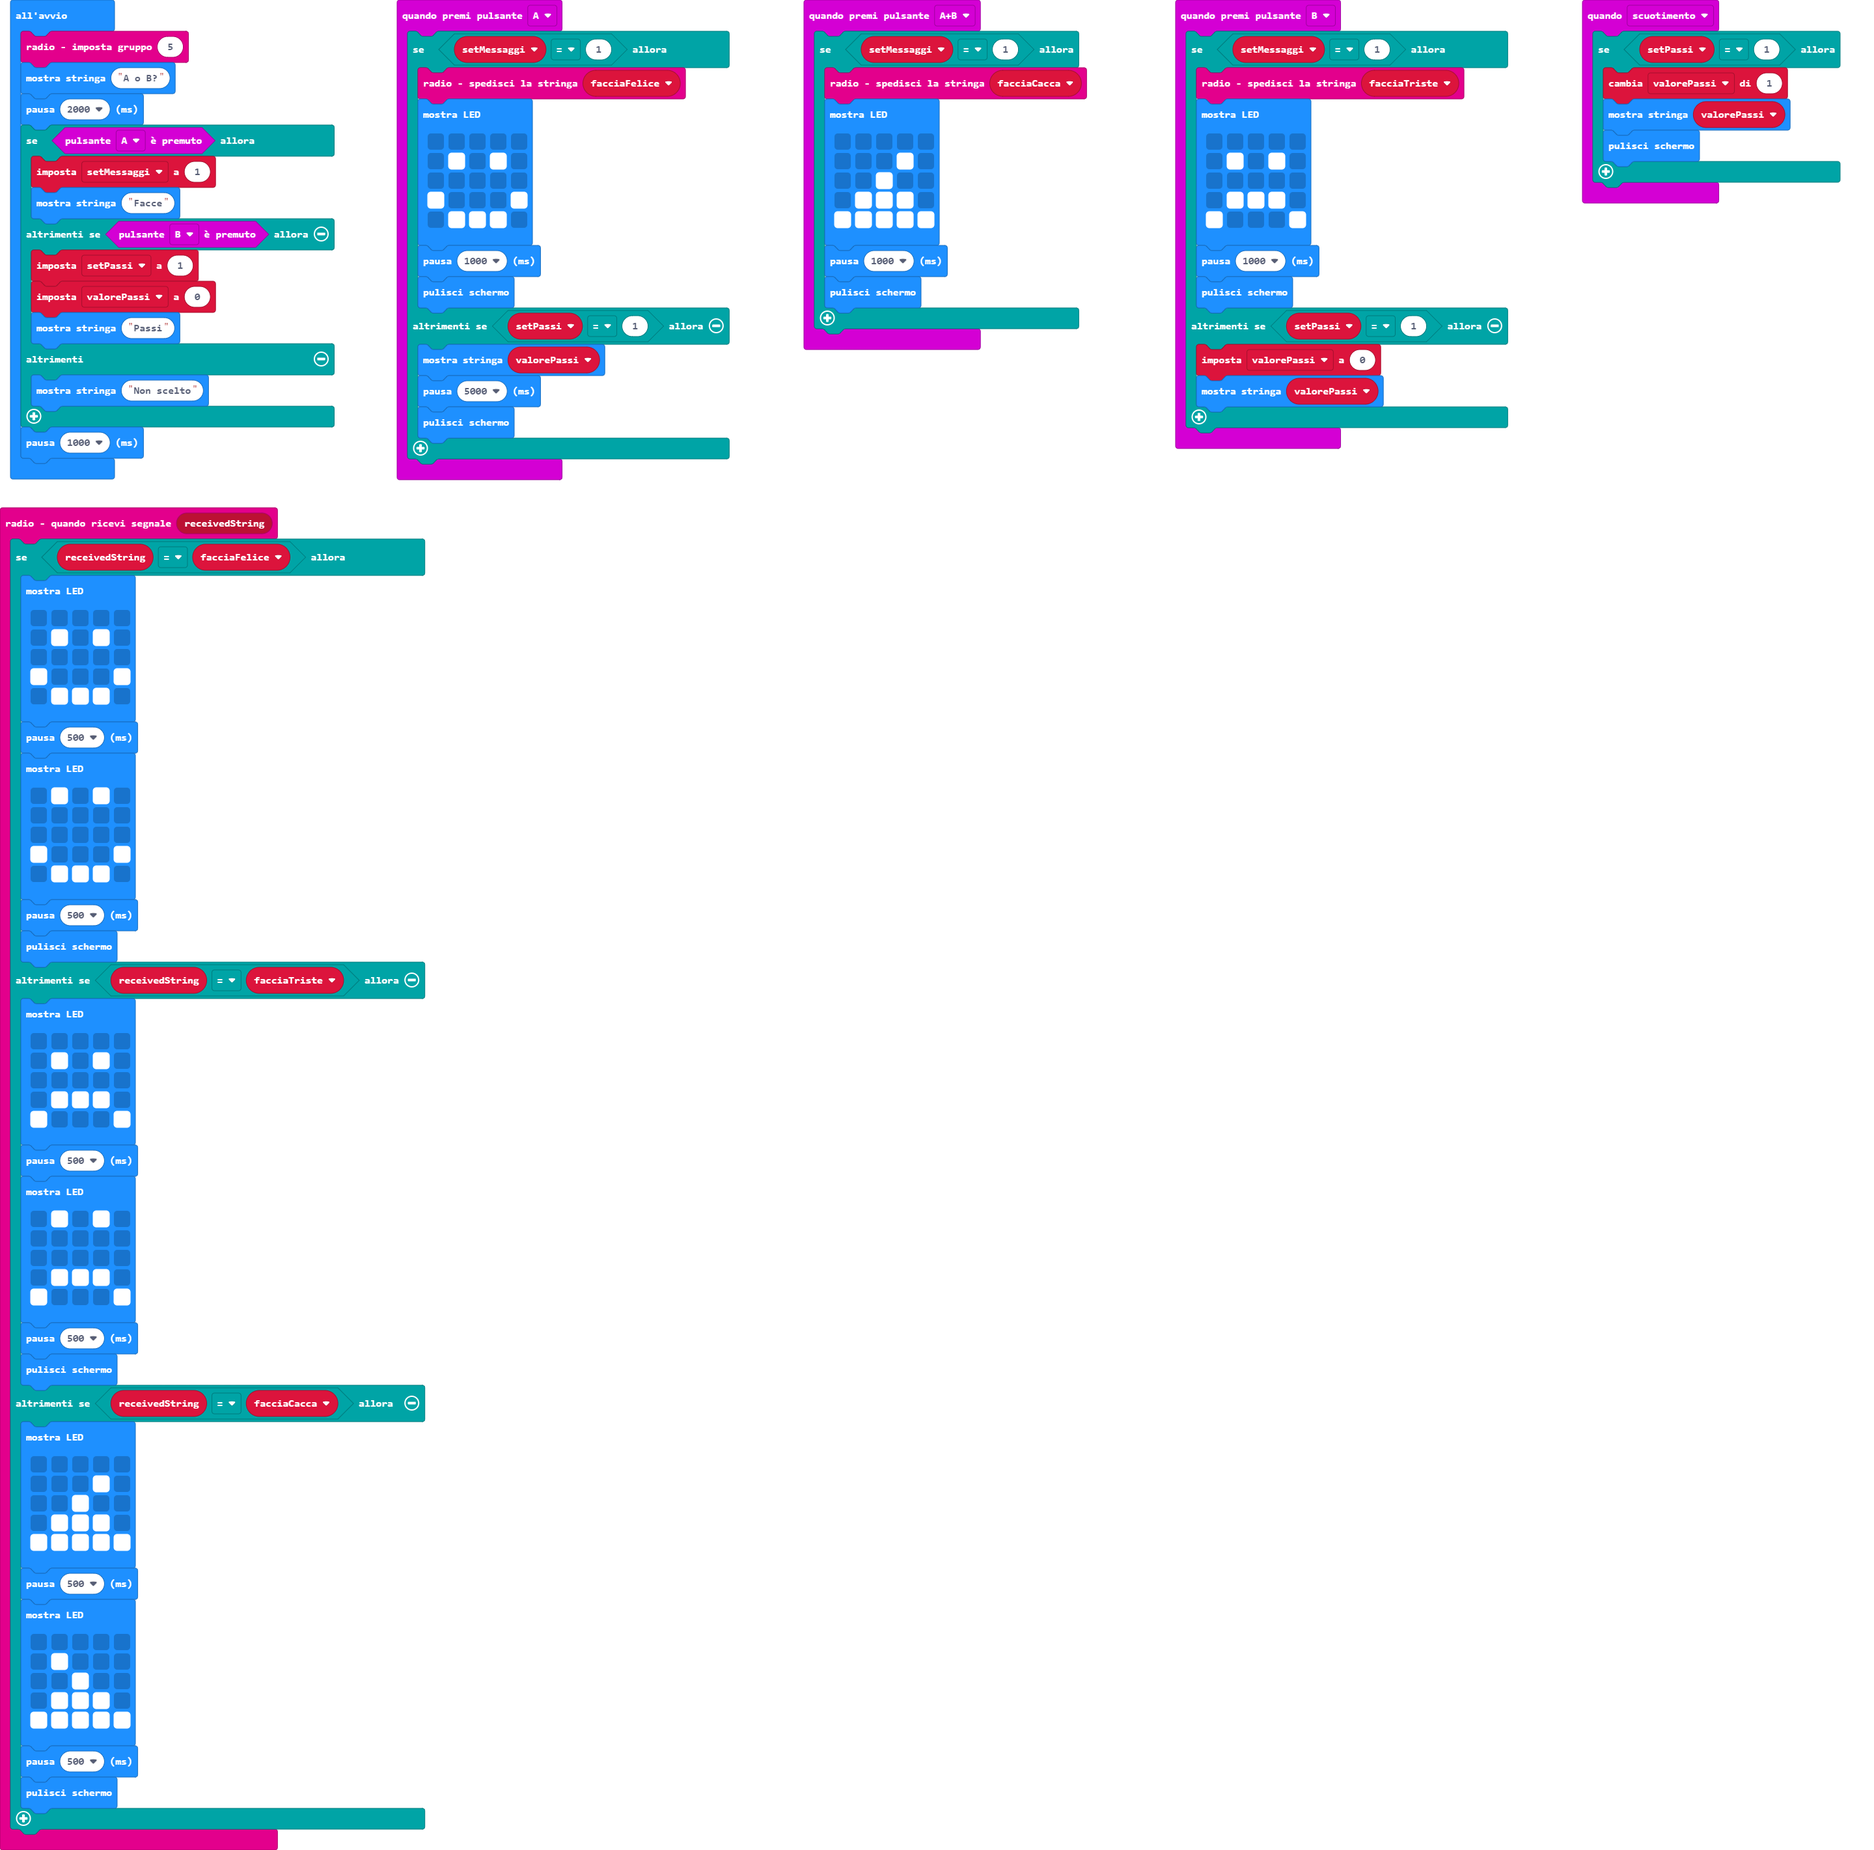
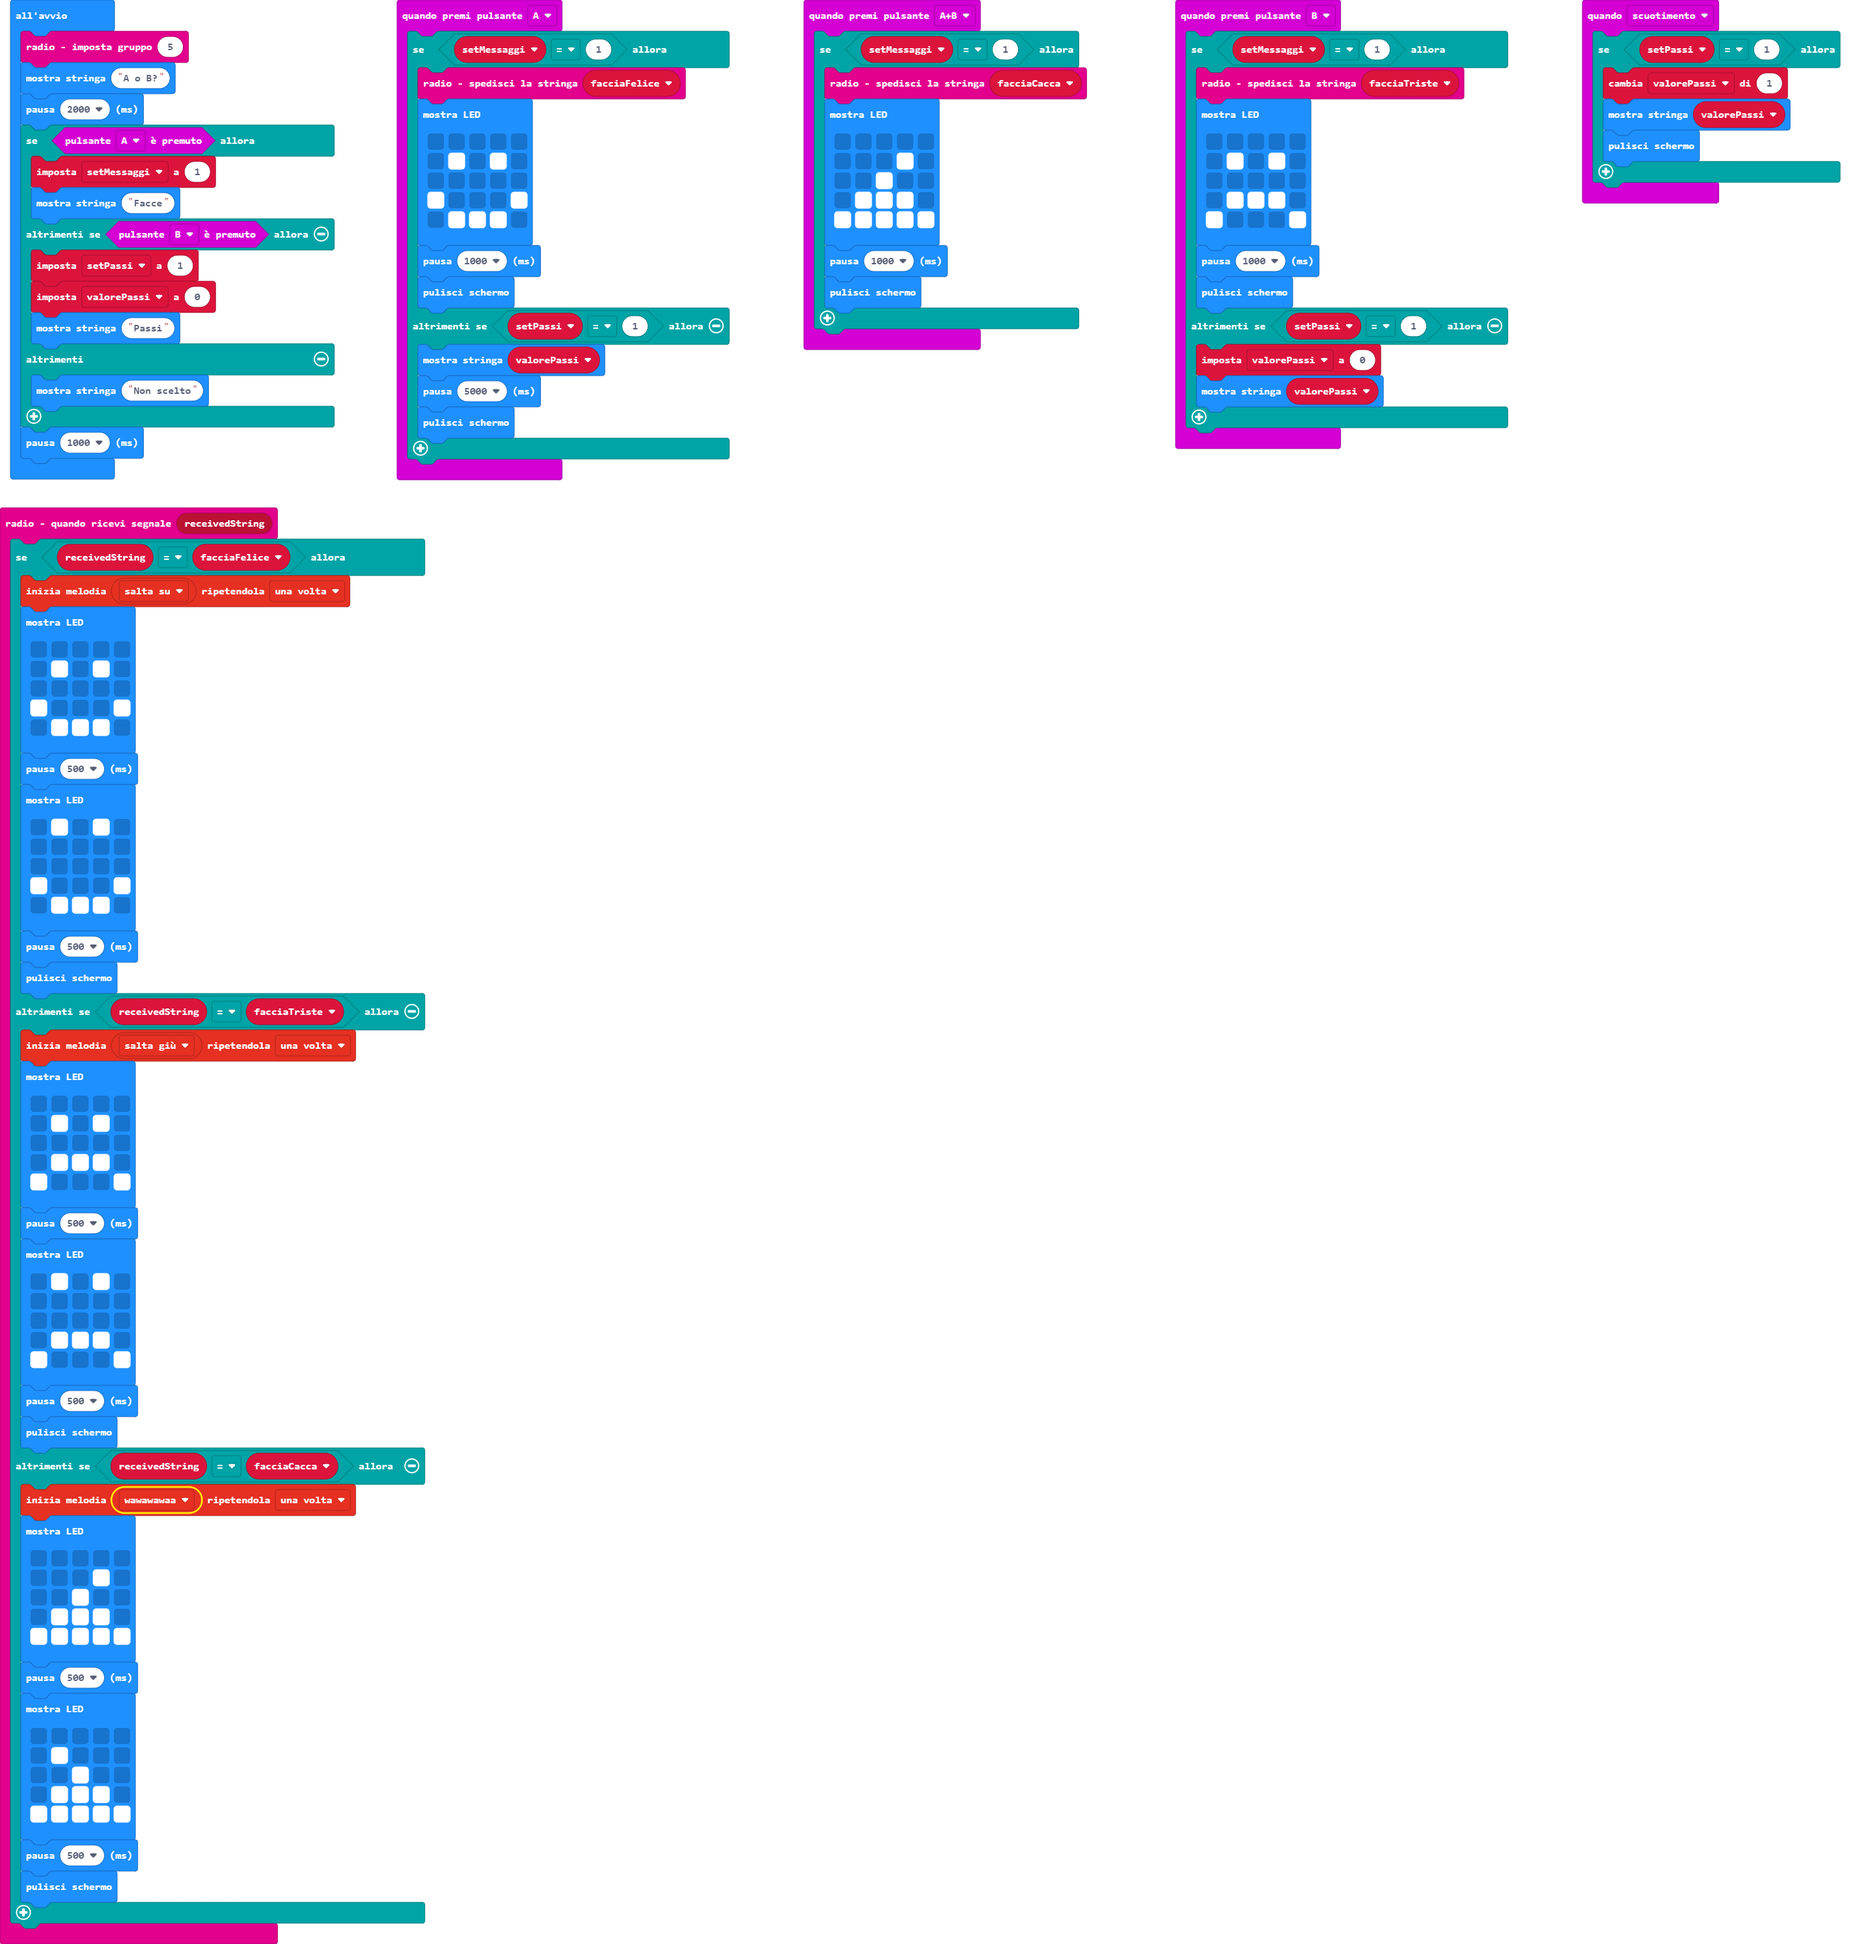
Aggiorna pxt.json, main.blocks, main.ts

diff --git a/main.ts b/main.ts
@@ -39,6 +39,7 @@ input.onButtonPressed(Button.AB, function () {
 })
 radio.onReceivedString(function (receivedString) {
     if (receivedString == facciaFelice) {
+        music.startMelody(music.builtInMelody(Melodies.JumpUp), MelodyOptions.Once)
         basic.showLeds(`
             . . . . .
             . # . # .
@@ -57,6 +58,7 @@ radio.onReceivedString(function (receivedString) {
         basic.pause(500)
         basic.clearScreen()
     } else if (receivedString == facciaTriste) {
+        music.startMelody(music.builtInMelody(Melodies.JumpDown), MelodyOptions.Once)
         basic.showLeds(`
             . . . . .
             . # . # .
@@ -75,6 +77,7 @@ radio.onReceivedString(function (receivedString) {
         basic.pause(500)
         basic.clearScreen()
     } else if (receivedString == facciaCacca) {
+        music.startMelody(music.builtInMelody(Melodies.Wawawawaa), MelodyOptions.Once)
         basic.showLeds(`
             . . . . .
             . . . # .
